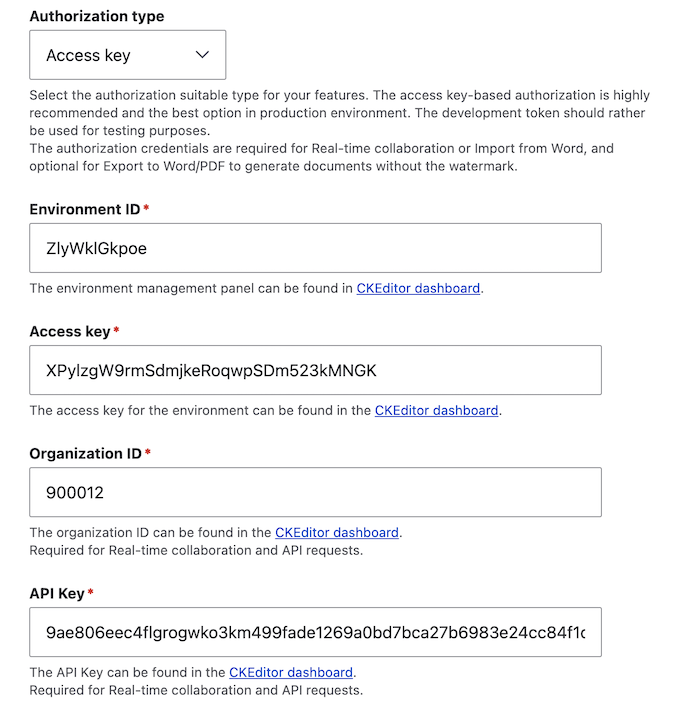
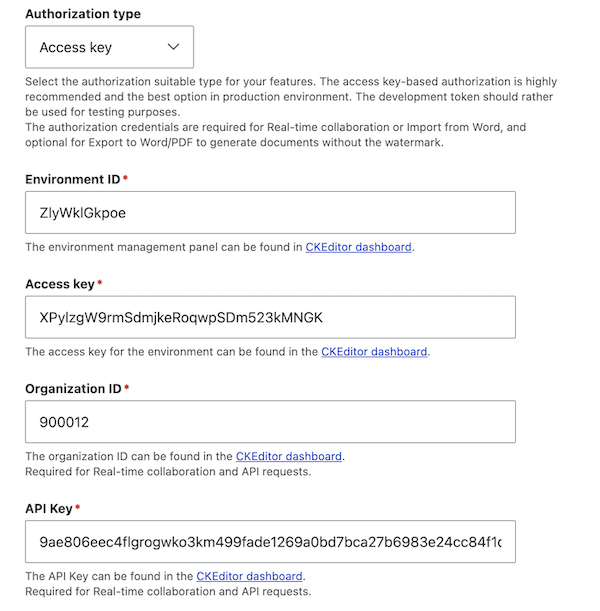
Docs: updated structure; file fixes. [short flow]

diff --git a/docs/installation/integrations/drupal.md b/docs/installation/integrations/drupal.md
@@ -13,35 +13,47 @@ modified_at: 2023-10-06
 
 Drupal is a free and open-source web content management system (CMS) written in PHP. CKEditor 5 WYSIWYG rich text editor is the default editor module for Drupal. The [CKEditor&nbsp;5 Premium Features module](https://www.drupal.org/project/ckeditor5_premium_features) provides instant integration of the real-time collaboration features with the editing platform.
 
-Currently, the module includes a full set of {@link features/collaboration collaboration tools}, namely Comments, Track changes, and Revision history. It also provides the {@link features/productivity-pack Productivity Pack} &nbsp; a set of essential formatting and navigation features &nbsp; as well as document import and export plugins. Additionally, the module includes the free Full Screen Mode, a free-to-use plugin that maximizes the editing area. It is especially useful when using features like Document outline or Comments that take up extra space around the editor.
+Currently, the module includes a full set of {@link features/collaboration collaboration tools}, namely Comments, Track changes, and Revision history. It also provides the {@link features/productivity-pack Productivity Pack} &nbsp; a set of essential formatting and navigation features &nbsp; as well as document import and export plugins.
 
 ## Real-time collaboration in Drupal with CKEditor 5
 
-With collaboration features, users can work together to write, review, and discuss their content right within Drupal. No need to use different apps for drafting and commenting &ndash; you can do it all in one place.
+With {@link features/real-time-collaboration Real-time Collaboration} features, multiple users can work together to write, review, and discuss their content right within Drupal. No need to use different apps for drafting and commenting &ndash; you can do it all in one place.
 
 {@img assets/img/drupal_premium_module.gif 721 Drupal with CKEditor&nbsp;5 real-time editing.}
 
-**Real-time Collaboration Features included in the CKeditor&nbsp;5 Premium module:**
+### Adding comments
 
-* {@link features/track-changes Track changes} to make suggested edits.
-* {@link features/comments Comments} to discuss the content.
-* {@link features/revision-history Revision History} to see what changes were made, and compare and restore previous versions of the content.
-* {@link features/real-time-collaboration Real-time Collaboration} to allow multiple users to edit simultaneously.
+The {@link features/comments Comments} feature allows users to discuss the content. It lets you add comments to any part of your content, including text, and block elements such as embedded media or images. This is a great way of communication for many authors working on the same document.
+
+### Tracking content changes
+
+The {@link features/track-changes Track changes} feature shows change suggestions added by editors. These can be later on accepted and added to the content or dismissed.
+
+{@link features/revision-history Revision History} is a versioning tool that allows the making of snapshots that can be named and easily browsed to see what changes were made and compare and restore previous versions of the content.
+
+### Notifications
 
 There is also a dedicated, configurable notifications system developed especially for the CKEditor 5 Premium module for Drupal. It helps the users stay up-to-date whenever someone mentions you in a document, comments, or replies to you, accepts or rejects suggestions, and so on. Integrate it with your own plugin to get notifications via email, Slack, or other services.
 
+### Asynchronous collaboration 
+
 All the collaboration features **can also be used for {@link features/collaboration#non-real-time-asynchronous-collaboration asynchronous editing}**. It is a collaboration mode when a single actor can work on the document at once, using the revision history, track changes, and comments features to interact with previous and following editors, as the work is done sequentially.
 
-**Other features available in the CKeditor&nbsp;5 Premium module include:**
+## Productivity-improving features included in the CKEditor&nbsp;5 Premium Features module
 
-* Easily defined {@link features/template templates}.
-* {@link features/slash-commands Slash commands} that let you create, insert, and format rich content on the go.
-* {@link features/format-painter Format painter} to easily style the edited text.
-* Enhanced {@link features/paste-from-office-enhanced Paste from Office} and {@link features/import-word Import from Word} features.
-* Handy one-click {@link features/export-pdf Export to PDF} and {@link features/export-word Export to Word} features that offer portability and cross-platform interoperability.
-* {@link features/mentions Mentions} feature that lets you tag other users in comments.
-* Full screen mode
+Apart from the real-time collaboration tools, the module provides various other plugins. The {@link features/format-painter Format painter} feature lets users easily style the edited text, while the {@link features/mentions Mentions} feature allows you to tag other users in comments. Meanwhile, {@link features/slash-commands Slash commands} let you create, insert, and format rich content on the go by typing a `/` sign and choosing from many predefined actions, such as text formatting, and inserting headings, tables, or lists.
 
+### Full Screen Mode
+
+The Full Screen Mode is a free-to-use plugin that maximizes the editing area. It is especially useful when using features like {@link features/document-outline Document outline} or {@link features/comments Comments} that take up extra space around the editor.
+
+### Converters
+
+The module includes the {@link features/paste-from-office-enhanced Paste from Office enhanced} feature which makes pasting rich-text, advanced content easy and reliable. Users can also use the {@link features/import-word Import from Word} feature to import whole documents into the editor. Once the work is done or needs to be sent to another editor, handy one-click {@link features/export-pdf Export to PDF} and {@link features/export-word Export to Word} features offer portability and cross-platform interoperability.
+
+### Templates
+
+Easily defined document and content {@link features/template templates} make content creation faster and easier thanks to sets of predefined templates. These may define whole documents, like CVs, reports, or formal letters conforming to the company's style guide as well as content blocks, such as pre-formatted tables, lists, and other block elements.
 
 ## Supported Drupal versions
 
@@ -78,11 +90,11 @@ CKEditor&nbsp;5 Premium module for Drupal requires an active license key and a f
 
 Please follow the {@link support/license-key-and-activation License key and activation} guide to find out how to obtain the key and activate the license. You can also use the {@link @trial guides/overview Premium features Free Trial} to obtain a commitment-free, 30-day trial key. Once you have the key ready, in the Drupal dashboard go to the CKEditor&nbsp;5 Premium module configuration. In the **General Setting** section, paste the key in the **License key** input box.
 
-{@img assets/img/drupal_license_key.png 700 Drupal license key.}
+{@img assets/img/drupal_license_key.png 600 Drupal license key.}
 
 Next, use the information obtained from the [CKEditor 5 Dashboard](https://dashboard.ckeditor.com/) and fill in the following fields in the Drupal module's **General Settings**.
 
-{@img assets/img/drupal_authorizations.png 700 Drupal authorization settings.}
+{@img assets/img/drupal_authorizations.png 600 Drupal authorization settings.}
 
 You can find more details of this process in the [Adding credentials to Drupal](https://www.drupal.org/docs/contributed-modules/ckeditor-5-premium-features/how-to-install-and-set-up-the-module#s-adding-credentials-to-drupal) guide on the Drupal website.
 
